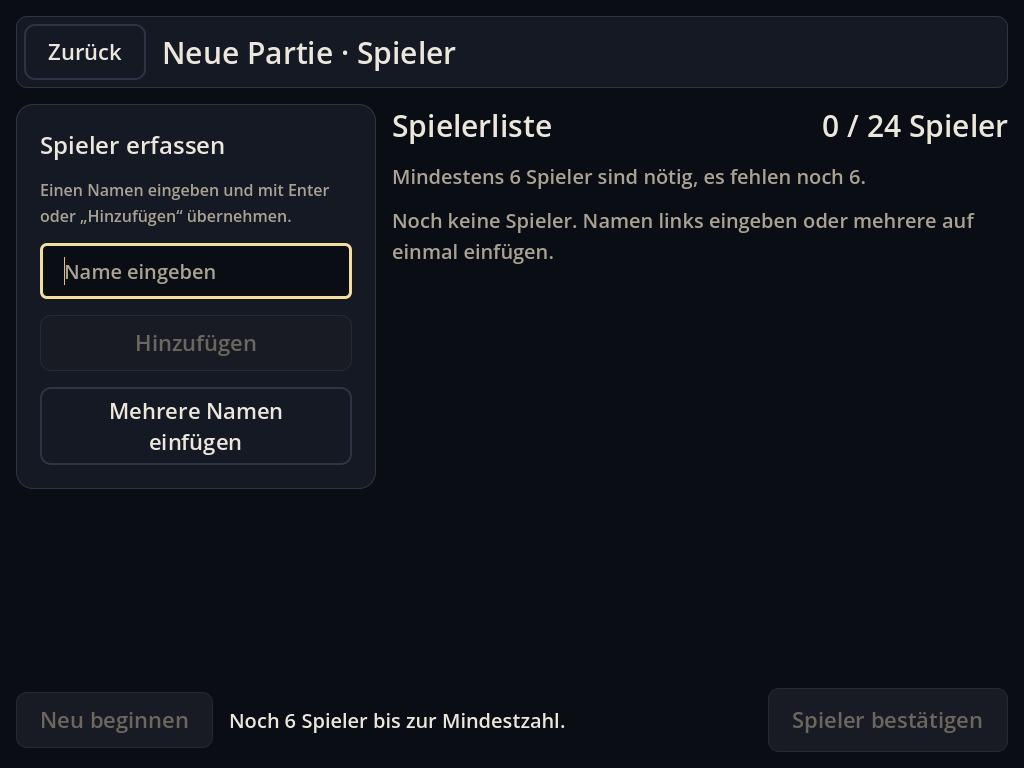
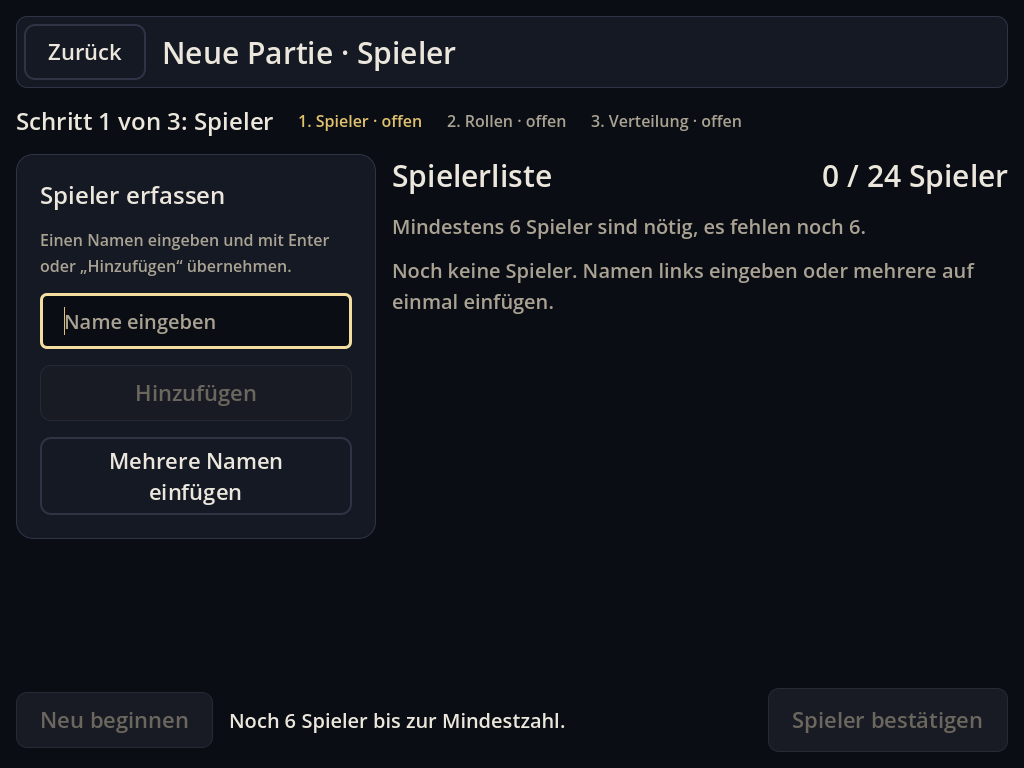
docs: Rollen-Setup, Wizard-Navigation und Prüf-Screenshots
docs/ui/role-setup.md beschreibt Katalogadapter, Darstellungsdaten, Pool,
Validierung, Vorschlag (mit Tabelle 6 bis 24), Invalidierung, Seed,
zufällige und manuelle Verteilung, Trugbilderwolf-Scheinrolle samt offenem
Widerspruch zu DR-08, Geheimhaltung, Wizard, API und Tests. Aktualisiert:
docs/ui/README.md, docs/ui/player-setup.md, godot/README.md. Dreizehn
Prüf-Screenshots unter docs/evidence/role-setup/; die Spieler-Setup-Aufnahmen
sind mit der neuen Schrittanzeige neu erzeugt.

Claude-Session: https://claude.ai/code/session_01TPAa6aqdG9qfimgUYd4iTS

diff --git a/docs/ui/role-setup.md b/docs/ui/role-setup.md
@@ -1,0 +1,245 @@
+# Rollen-Setup · Rollen auswählen und verteilen
+
+Stand: 27.09.2026 · Godot 4.7.2 · Projekt `godot/`
+
+„Neue Partie“ ist ein Wizard mit drei Schritten: **Spieler → Rollen → Verteilung**. Nach dem bestätigten Namensschritt (`player-setup.md`) stellt der Spielleiter einen Rollenpool für genau diese Personenzahl zusammen, verteilt ihn zufällig und reproduzierbar oder manuell und bestätigt die Verteilung. Das Ergebnis bleibt ein Entwurf im Speicher. Es entsteht weder `StartGame` noch ein `GameState`, und der Regelkern bleibt unverändert.
+
+## Schichten
+
+| Schicht | Dateien | Aufgabe |
+|---|---|---|
+| Katalogadapter | `app/setup/setup_role_catalog.gd` (`SetupRoleCatalog`) | liest Rollen-IDs, Fraktion, `counts_as_wolf`, Nachtpriorität, `max_copies`, Pflicht-Scheinrolle und zulässige Scheinrollen nur aus `RoleCatalog`/`Faction` |
+| Darstellungsdaten | `app/setup/role_presentation.gd` (`RolePresentation`) | Übersetzungsschlüssel für Name, Kurzbeschreibung und Fraktion; Reihenfolge in der Oberfläche; keine Regelwirkung |
+| Modell | `role_pool_draft.gd`, `distribution_draft.gd`, `setup_draft.gd` | Rollenanzahlen, Pool, Verteilung, Seed, Wizard-Schritt, Bestätigungen, Invalidierungsgründe |
+| Logik | `role_setup.gd` (`RoleSetup`), `role_suggestion.gd`, `role_distribution.gd` | Operationen und zentrale Invalidierung, Vorschlag, deterministische Verteilung und Scheinrollen |
+| Anwendungsschicht | `player_setup.gd` (`PlayerSetup`, `AppContext.setup`) | einzige Schnittstelle der UI; jede Operation atomar mit `SetupResult` |
+| Sicht | `setup_distribution_view.gd` | Sicht des Verteilungsschritts (reine Daten) |
+| UI | `app/screens/new_game/`: `new_game_screen`, `wizard_progress`, `player_step`, `role_step`, `role_row`, `distribution_step`, `assignment_row` | Darstellung, Eingabe, Rückfragen; keine Regellogik |
+
+`app/setup/` kennt weder `GameState`, `RulesEngine`, `Command`, `StartGame` noch `GameSession` und enthält keine globale Zufallsquelle und keine Uhr (statisch geprüft).
+
+## Datenmodell
+
+**`SetupDraft`** (bisherige Felder siehe `player-setup.md`)
+- `current_step`: `players`, `roles` oder `distribution`
+- `players_invalidated`: Personenliste nach einer Bestätigung geändert
+- `roles`: `RolePoolDraft`
+- `distribution`: `DistributionDraft`
+
+**`RolePoolDraft`**
+- `counts: Dictionary[StringName, int]`, jede Katalogrolle, Start 0
+- `confirmed`
+- `invalidated`: `""`, `roles_changed` oder `person_count_changed`
+- `pool()`: kanonische Liste, `total()`, `summary()`, `issues(persons)`
+
+**`DistributionDraft`**
+- `mode`: `random` (Standard) oder `manual`
+- `assignment: Dictionary[int, StringName]`: Personen-ID → Rollen-ID
+- `appearances: Dictionary[int, StringName]`: Personen-ID → vorbereitete Scheinrolle, nur für Rollen mit Pflicht-Scheinrolle
+- `confirmed`
+- `base_seed` (`-1` = noch keiner), `shuffle_count`
+- `pool`: der Pool, für den die Zuordnung gilt
+- `invalidated`: `""`, `roles_changed` oder `person_count_changed`
+
+Alle Werte sind reine, speicherbare Daten. Eine Dateispeicherung gibt es noch nicht.
+
+## Rollen und Darstellung
+
+| ID | DE | EN | Fraktion (Katalog) | `counts_as_wolf` |
+|---|---|---|---|---|
+| `dorfbewohner` | Dorfbewohner | Villager | Dorf | nein |
+| `schutzengel` | Schutzengel | Guardian Angel | Dorf | nein |
+| `das-orakel` | Das Orakel | The Oracle | Dorf | nein |
+| `waldhexe` | Waldhexe | Witch of the Woods | Dorf | nein |
+| `sensentraeger` | Sensenträger | Reaper | Dorf | nein |
+| `wolfskind` | Wolfskind | Wolf Child | Dorf | nein |
+| `lehrling` | Lehrling | Apprentice | Dorf | nein |
+| `werwolf` | Werwolf | Werewolf | Werwölfe | ja |
+| `spiegelwolf` | Spiegelwolf | Mirror Wolf | Werwölfe | ja |
+| `trugbilderwolf` | Trugbilderwolf | Decoy Wolf | Werwölfe | ja |
+| `manipulator` | Manipulator | Manipulator | Einzelsieg | nein |
+
+Die Tabelle gibt die Oberflächenreihenfolge wieder: nach Fraktion gruppiert (`RolePresentation.FACTION_ORDER`), darin nach `ROLE_ORDER`. Schlüssel: `ui.role.<id>.name` und `ui.role.<id>.short` (Bindestrich wird zu Unterstrich, z. B. `ui.role.das_orakel.name`) sowie `ui.faction.village|wolves|solo`. `wolfskind` beginnt laut Katalog im Dorf und zählt deshalb im Setup nicht als Wolf.
+
+## Rollenpool und Validierung
+
+Ein Pool ist gültig, wenn alle folgenden Bedingungen gelten:
+- Summe = Personenzahl (`too_few_roles`, `too_many_roles`)
+- keine negative Anzahl (`negative_count`) und nur bekannte IDs (`unknown_role`)
+- höchstens `copy_limit` Kopien je Rolle (`above_maximum`): Katalog-`max_copies`, bei `UNLIMITED` die Personenzahl
+- mindestens eine Rolle der Fraktion Dorf (`missing_village`)
+- mindestens eine Rolle mit `counts_as_wolf` (`missing_wolf`)
+- mindestens eine Einzelsiegrolle (`missing_solo`)
+
+Die Einzelsiegrolle erkennt der Adapter über `RoleCatalog.faction_of(id) == Faction.SOLO`. Ein fest verdrahteter Rollenname ist nicht nötig, weil der Katalog `manipulator` bereits maschinenlesbar als `solo` führt.
+
+**Kanonischer Pool:**
+- jede Kopie einmal
+- nach Rollen-ID sortiert, z. B. `["dorfbewohner", "dorfbewohner", "manipulator", "schutzengel", "werwolf", …]`
+- unabhängig von Eingabereihenfolge und Sprache
+
+## Vorschlag
+
+`RoleSuggestion.for_count(n)` ist eine Setup-Hilfe, keine Spielregel. Die Oberfläche nennt ihn „Vorschlag“ und nicht „ausgewogen“. Der Vorschlag ist deterministisch und kommt ohne Zufall aus:
+1. **Wölfe:** 6–8 → 1, 9–12 → 2, 13–17 → 3, 18–21 → 4, 22–24 → 5, in der Reihenfolge Werwolf, Spiegelwolf, Werwolf, Trugbilderwolf, Werwolf
+2. **Einzelsieg:** genau ein Manipulator
+3. **Sonderrollen des Dorfs:** (n − Wölfe − 1) / 2, höchstens 6, in der Reihenfolge Schutzengel, Das Orakel, Waldhexe, Sensenträger, Lehrling, Wolfskind
+4. **Rest:** Dorfbewohner
+
+| n | Zusammensetzung |
+|---|---|
+| 6 | 1 Werwolf, 1 Manipulator, Schutzengel, Orakel, 2 Dorfbewohner |
+| 7 | 1 Werwolf, 1 Manipulator, Schutzengel, Orakel, 3 Dorfbewohner |
+| 8 | 1 Werwolf, 1 Manipulator, Schutzengel, Orakel, Waldhexe, 3 Dorfbewohner |
+| 9 | Werwolf, Spiegelwolf, Manipulator, Schutzengel, Orakel, Waldhexe, 3 Dorfbewohner |
+| 10 | wie 9, 4 Dorfbewohner |
+| 11 | wie 9 + Sensenträger, 4 Dorfbewohner |
+| 12 | wie 11, 5 Dorfbewohner |
+| 13 | 2 Werwölfe, Spiegelwolf, Manipulator, Schutzengel, Orakel, Waldhexe, Sensenträger, 5 Dorfbewohner |
+| 14 | wie 13 + Lehrling, 5 Dorfbewohner |
+| 15 | wie 14, 6 Dorfbewohner |
+| 16 | wie 14 + Wolfskind, 6 Dorfbewohner |
+| 17 | wie 16, 7 Dorfbewohner |
+| 18 | 2 Werwölfe, Spiegelwolf, Trugbilderwolf, Manipulator, alle 6 Sonderrollen, 7 Dorfbewohner |
+| 19–21 | wie 18, 8 bis 10 Dorfbewohner |
+| 22 | 3 Werwölfe, Spiegelwolf, Trugbilderwolf, Manipulator, alle 6 Sonderrollen, 10 Dorfbewohner |
+| 23–24 | wie 22, 11 bzw. 12 Dorfbewohner |
+
+`apply_suggestion()` übernimmt ihn direkt, wenn die Auswahl leer ist oder bereits dem Vorschlag entspricht. Weicht eine bestehende Auswahl ab, liefert es `confirmation_required`; die UI fragt dann „Vorschlag übernehmen?“, und Abbrechen ändert nichts. Danach ist alles frei änderbar.
+
+## Abhängigkeiten und Invalidierung
+
+Alle Regeln stehen zentral in `RoleSetup` und laufen als Anwendungsschicht-Operationen, nicht als UI-Rückrufe.
+
+| Ereignis | Rollenpool | Verteilung |
+|---|---|---|
+| Person hinzufügen, importieren oder entfernen | bestätigter Pool mit unpassender Summe verliert die Bestätigung (`person_count_changed`) | vollständig verworfen (`person_count_changed`); Seed und Mischzähler bleiben |
+| Name ändern | bleibt | bleibt an der Personen-ID; der neue Name erscheint |
+| Rollenanzahl ändern, zurücksetzen, Vorschlag | Bestätigung aufgehoben (`roles_changed`) | vollständig verworfen (`roles_changed`) |
+| Pool erneut bestätigen | bestätigt | bleibt nur bei identischem kanonischen Pool |
+| Neu mischen | unverändert | nur zufällige Zuordnung und Scheinrollen neu |
+| Moduswechsel | unverändert | bei bestehender Zuordnung nur nach Rückfrage (`confirmation_required`); dann verworfen |
+
+Jede Personenänderung hebt wie bisher auch die Bestätigung des Namensschritts auf. Ist der aktuelle Schritt danach nicht mehr erreichbar, fällt der Wizard auf den letzten erreichbaren zurück.
+
+## Seed und zufällige Verteilung
+
+**Seed-Erzeugung:**
+- Der erste Seed entsteht beim ersten bewussten „Zufällig verteilen“ oder bei der ersten vollständigen manuellen Zuordnung.
+- Quelle ist `PlayerSetup.seed_source`, standardmäßig `AppPlatform.initial_seed()`: Systemzeit in µs XOR Laufzeitzähler, gebracht auf 1 … `CanonicalJson.MAX_SAFE_INT`.
+- Das ist die einzige Stelle mit Uhr, und sie liegt außerhalb von `app/setup/`.
+- Der Seed wird als `base_seed` gespeichert und in den technischen Details angezeigt („Seed 20260926 · Mischung 0“).
+- Tests setzen eine feste Quelle.
+
+**Verteilung** (`RoleDistribution.random_assignment`):
+1. Personen-IDs aufsteigend sortieren.
+2. Den kanonischen Pool mit `SeededRng(effektiver Seed).shuffled()` mischen (Fisher-Yates des Regelkerns).
+3. Paarweise zuordnen.
+
+Die Verteilung nutzt weder globalen Zufall noch eine Uhr. Das Ergebnis hängt nur an Personen-IDs, Pool und Seed, nicht an Listenposition, Name, Sprache oder Neuaufbau.
+
+**Neu mischen:**
+- Nur als bewusste Aktion, erhöht `shuffle_count`.
+- Effektiver Seed = `base_seed` bei Zählerstand 0, sonst `(base_seed + Zähler × 2654435761) mod MAX_SAFE_INT`.
+- Reproduzierbar; dieselbe Permutation ist möglich, und kein Test setzt Verschiedenheit voraus.
+- Hebt die Bestätigung der Verteilung auf.
+
+## Manuelle Verteilung
+
+- Jede Person zeigt Nummer, Name und „nicht zugewiesen“ bzw. „zugewiesen“, dazu „Rolle zuweisen“ bzw. „Rolle ändern“ (48 px hoch).
+- Die Auswahl ist ein modaler Dialog (`ConfirmDialog` mit `DialogOption`-Liste, Fokussperre, Escape bricht ab). Er bietet:
+  - nur Rollen mit freien Kopien („Werwolf · 1 frei“)
+  - „Zuweisung entfernen“
+  - „Rolle tauschen mit Nr. …“
+- `assign_role` lehnt ab: `no_copy_available` (Überbelegung), `role_not_in_pool`, `unknown_role`, `unknown_person`, `wrong_mode`.
+- Weitere Operationen: `unassign_role`, `swap_roles` (auch mit einer nicht zugewiesenen Person).
+- Der Restbestand ist öffentlich als Zahl sichtbar („Noch 7 Rollen offen“). Mit Rollennamen erscheint er nur im geöffneten Spielleiterbereich.
+- `confirm_distribution` gelingt nur bei vollständiger, exakter Zuordnung (`distribution_incomplete`).
+
+## Trugbilderwolf-Scheinrolle
+
+Für jede Person mit Pflicht-Scheinrolle (`RoleCatalog.requires_appearance`) bereitet der Entwurf eine Scheinrolle vor:
+- **Herleitung:** `SeededRng(mix(effektiver Seed, 1000003 + Personen-ID))` wählt aus `SetupRoleCatalog.appearance_options()`, also den kanonisch sortierten Rollen, die bekannt sind und nicht als Wolf zählen. Das Ergebnis ist nie leer.
+- **Stabilität:** Die Scheinrolle hängt an der Personen-ID und bleibt bei Umbenennen gleich. Neu mischen berechnet sie neu. Manuell entsteht sie, sobald die Zuordnung vollständig ist.
+- **Sichtbarkeit:** nur im geöffneten Spielleiterbereich, als „Scheinrolle: Lehrling (vorläufig)“. Eine manuelle Wahl gibt es noch nicht.
+
+**Offener Widerspruch zu DR-08:** Laut Entscheidungslog legt der Spielleiter die Scheinrolle fest, „nie zufällig“. Dieser Auftrag verlangt dagegen eine aus dem Seed abgeleitete Vorbelegung. Deshalb ist sie ausdrücklich als *vorläufig* markiert. Der Regelkern bleibt unberührt, weil `StartGame` die Scheinrolle weiterhin explizit über `appearances` bekommt. Vor der StartGame-Integration muss entschieden werden, ob der Spielleiter die Vorbelegung bestätigen oder ändern muss.
+
+## Geheimhaltung
+
+- Die Standardansicht der Verteilung zeigt je Person nur „zugewiesen“ oder „nicht zugewiesen“.
+- Rollen und Scheinrollen erscheinen nur im bewusst geöffneten Bereich „Geheim · nur für die Spielleitung“ (`AssignmentPanel` mit `SecretHeading`, eigener Rahmen) und in der modalen Rollenauswahl.
+- Beim Verlassen des Schritts schließt sich der Bereich wieder.
+- Eine dauerhafte Warnung steht im Schritt: „Rollen sind geheim: nicht vor Mitspielenden zeigen.“
+- Toasts („Rollen verteilt“, „Neu gemischt“, „Verteilung bestätigt“), Status, Dialogtitel, Tooltips und Screen-IDs nennen keine Rolle. `test_distribution_step` prüft das nach jeder Aktion gegen alle DE/EN-Rollennamen.
+
+## Wizard-Navigation
+
+- **Schrittanzeige** unter der Kopfzeile (`WizardProgress`, Fließlayout): „Schritt 2 von 3: Rollen“, dazu je Schritt ein Textchip wie „1. Spieler · erledigt“. Zustände sind `erledigt`, `offen` und `neu prüfen`; der aktuelle Schritt ist farbig hervorgehoben und steht zusätzlich als Text da.
+- **Spieler → Rollen:** nur mit bestätigter, gültiger Liste über „Weiter zu den Rollen“ in der Bestätigungskarte.
+- **Rollen → Verteilung:** nur über „Rollen bestätigen“ mit gültigem Pool.
+- **Schrittwechsel:** `PlayerSetup.go_to_step()` prüft die Vorbedingungen (`players_not_confirmed`, `roles_not_confirmed`). Schritte haben keine eigenen Screen-IDs, ein Doppelklick überspringt nichts, und kein Wechsel erzeugt einen Befehl.
+- **Zurück, Escape, System-Zurück:** Verteilung → Rollen → Spieler. Im Spielerschritt gilt die bestehende Rückfrage „Weiter bearbeiten / Entwurf behalten / Entwurf verwerfen“. Sie erscheint jetzt auch bei unbestätigter Rollenwahl oder unbestätigter Zuordnung.
+- **Erneutes Öffnen:** Der Wizard öffnet im zuletzt aktiven Schritt.
+
+## Bestätigungen
+
+**„Rollen bestätigen“:**
+- nur mit gültigem Pool und bestätigter Personenliste
+- setzt `roles.confirmed` und wechselt zur Verteilung
+
+**„Verteilung bestätigen“:**
+- nur bei vollständiger Zuordnung
+- setzt `distribution.confirmed`
+- zeigt die Karte „Bereit für Sitzordnung“: Personen, Rollen nach Fraktion, Modus und Seed
+
+Beide Bestätigungen erzeugen kein `StartGame`, keinen `GameState` und keinen Befehl; `GameSession` bleibt unberührt, was Tests belegen. Jede spätere passende Änderung hebt die Bestätigung auf.
+
+## Öffentliche API (`PlayerSetup`)
+
+| Methode | Fehlercodes |
+|---|---|
+| `go_to_step(step)` | `unknown_step`, `players_not_confirmed`, `roles_not_confirmed` |
+| `set_role_count(role, count)`, `change_role_count(role, delta)` | `unknown_role`, `negative_count`, `above_maximum` |
+| `reset_roles()` | – |
+| `apply_suggestion(force = false)` | `confirmation_required`, `too_few_persons`, `too_many_persons` |
+| `confirm_roles()` | `players_not_confirmed`, `roles_invalid` (Details: `issues`) |
+| `set_distribution_mode(mode, force = false)` | `unknown_mode`, `confirmation_required` |
+| `distribute_randomly()` | `players_not_confirmed`, `roles_not_confirmed`, `wrong_mode`, `no_seed_source`, `invalid_seed` |
+| `reshuffle()` | wie oben, `nothing_to_reshuffle` |
+| `assign_role(person_id, role)`, `unassign_role(person_id)`, `swap_roles(a, b)` | `wrong_mode`, `unknown_person`, `unknown_role`, `role_not_in_pool`, `no_copy_available` |
+| `confirm_distribution()` | `distribution_incomplete` und die Vorbedingungen |
+
+- **Eigenschaft:** `seed_source: Callable`.
+- **Signal:** `changed(view)`, auch nach einem Schrittwechsel.
+- **Sicht `view()`:** ergänzt um `step`, `steps` (`id`, `number`, `state`, `current`, `reachable`), `roles` (`counts`, `total`, `persons`, `free`, `valid`, `issues`, `confirmed`, `can_confirm`, `invalidated`, `pool`, `factions`, `wolf_count`, `limits`, `can_increase`, `can_decrease`, `is_empty`, `is_suggestion`) und `distribution` (`mode`, `assignment` [`person_id`, `number`, `name`, `role`, `appearance`], `assigned_count`, `person_count`, `role_count`, `remaining`, `remaining_total`, `complete`, `has_assignment`, `confirmed`, `can_confirm`, `invalidated`, `has_seed`, `seed`, `effective_seed`, `shuffle_count`, `factions`, `ready_for_seating`).
+
+**Neue UI-Bausteine:**
+- `DialogOption` und `DialogRequest.options`/`title_values` (Auswahlliste im modalen Dialog; ohne `confirm_key` keine Bestätigungsaktion)
+- `GrimmButton.format_values`
+
+## Tests und Screenshots
+
+```bash
+godot/tests/run_all.sh --filter=test_role           # Rollenmodell, Vorschlag, Rollenwahl-UI
+godot/tests/run_all.sh --filter=test_distribution   # Verteilungsmodell, Verteilungs-UI, Geheimhaltung
+xvfb-run -a -s "-screen 0 1920x1080x24" <godot-4.7.2> --path godot --rendering-driver opengl3 \
+  --audio-driver Dummy -s res://tools/capture_ui_screenshots.gd -- --only=role-setup
+```
+
+| Testdatei | Inhalt |
+|---|---|
+| `tests/ui/test_role_model.gd` | Katalogadapter gegen `RoleCatalog`, Darstellungsschlüssel DE/EN, Plus/Minus, Grenzen, Validierung, kanonischer Pool, Schrittsperren, Vorschlag 6 bis 24, Überschreiben nur mit Bestätigung, Personenänderungen, kein Zufall und keine Uhr in `app/setup/` |
+| `tests/ui/test_role_step.gd` | Schrittanzeige und Sperren, Doppelklick, Zurück und Navigation erhalten Daten, Verlassen-Rückfrage, Rollenzeilen mit Katalogdaten und Gruppen, Zähler und Fehler, Überschreib-Dialog, kein GameState/StartGame, Layout 1024×768/1280×800 EN/1920×1080, Scrollen, Schlüssel |
+| `tests/ui/test_distribution_model.gd` | Vollständigkeit, Reproduzierbarkeit, Personen-ID statt Reihenfolge, Neuaufbau/Sprache/Name, Neu mischen, Bestätigen, Invalidierung, manuelle Zuweisung, Moduswechsel, Trugbilderwolf-Scheinrollen (auch mehrere, manuell) |
+| `tests/ui/test_distribution_step.gd` | verborgene Rollen, geheimer Bereich, Seed, Neu mischen, Zusammenfassung ohne Partie, manuelle Auswahl im modalen Dialog mit Fokussperre, Moduswechsel-Rückfrage, Layout, Scrollen |
+
+Prüf-Screenshots: `docs/evidence/role-setup/`.
+
+## Bewusst noch nicht enthalten
+
+- Sitzordnung, Sitzkreis, Drag-and-drop
+- Rollenübergabe an Spieler, öffentliche Rollenanzeige
+- `StartGame`-Integration: Geplant ist ein manueller Aufbau mit `roles` und `appearances` aus dem Entwurf, damit die Setup-Zuordnung maßgeblich bleibt. Der zufällige Kernmodus mischt selbst und würde eine andere Zuordnung erzeugen.
+- manuelle Wahl der Trugbilderwolf-Scheinrolle (siehe DR-08 oben)
+- Speichern des Entwurfs, gespeicherte Gruppen, Undo/Redo

diff --git a/godot/README.md b/godot/README.md
@@ -1,6 +1,6 @@
 # Grimmhain · Godot-Projekt
 
-Phase 1 des Masterplans (`../GRIMMHAIN-REVOLUTION-MASTERPLAN.md`): headless, deterministischer Regelkern für Dorf gegen Werwölfe. Umfang nach `../docs/specs/vertical-slice/implementation-boundary.md` Abschnitt A, ergänzt um die Grundlagen B-06, B-11 (ohne `ReorderSeats`, `ConfirmRoleShown`, `BeginDay`) und DR-14: Regelschritte, Prompt-Abbruch, Spielleiterkorrektur, persistente Reaktionswarteschlange, vorläufige und verbindliche Siegprüfung. Dazu die technische UI-Grundlage der Tablet-App (App-Shell, Navigation, Ansichten, Theme, DE/EN, Anwendungsschicht), beschrieben in `../docs/ui/README.md`, und der erste Setup-Schritt „Neue Partie“ (Personen erfassen und bestätigen, `../docs/ui/player-setup.md`); keine Assets, kein Audio, noch kein Spielablauf in der UI. Rollen: `dorfbewohner`, `werwolf` und die Vertical-Slice-Rollen `sensentraeger`, `schutzengel`, `waldhexe`, `das-orakel`, `trugbilderwolf`, `wolfskind`, `spiegelwolf`, `manipulator` und `lehrling` (siehe „Rollen“).
+Phase 1 des Masterplans (`../GRIMMHAIN-REVOLUTION-MASTERPLAN.md`): headless, deterministischer Regelkern für Dorf gegen Werwölfe. Umfang nach `../docs/specs/vertical-slice/implementation-boundary.md` Abschnitt A, ergänzt um die Grundlagen B-06, B-11 (ohne `ReorderSeats`, `ConfirmRoleShown`, `BeginDay`) und DR-14: Regelschritte, Prompt-Abbruch, Spielleiterkorrektur, persistente Reaktionswarteschlange, vorläufige und verbindliche Siegprüfung. Dazu die technische UI-Grundlage der Tablet-App (App-Shell, Navigation, Ansichten, Theme, DE/EN, Anwendungsschicht), beschrieben in `../docs/ui/README.md`, und der Setup-Wizard „Neue Partie“ (Personen erfassen, Rollen auswählen, Rollen verteilen; `../docs/ui/player-setup.md`, `../docs/ui/role-setup.md`), noch ohne Sitzordnung und `StartGame`; keine Assets, kein Audio, noch kein Spielablauf in der UI. Rollen: `dorfbewohner`, `werwolf` und die Vertical-Slice-Rollen `sensentraeger`, `schutzengel`, `waldhexe`, `das-orakel`, `trugbilderwolf`, `wolfskind`, `spiegelwolf`, `manipulator` und `lehrling` (siehe „Rollen“).
 
 ## Engine-Version (gepinnt)
 
@@ -25,6 +25,8 @@ godot/tests/run_all.sh --filter=replay     # nur Testdateien, deren Name "replay
 godot/tests/run_all.sh --filter=reactions  # z. B. nur die Reaktionswarteschlange
 godot/tests/run_all.sh --filter=test_ui    # nur die UI-Grundlage (tests/ui/test_ui_*)
 godot/tests/run_all.sh --filter=test_setup # nur das Spieler-Setup (tests/ui/test_setup_*)
+godot/tests/run_all.sh --filter=test_role  # Rollenwahl und Wizard (tests/ui/test_role_*)
+godot/tests/run_all.sh --filter=test_distribution # Rollenverteilung und Geheimhaltung
 GODOT_BIN=/pfad/zu/godot godot/tests/run_all.sh   # eigene Godot-Binärdatei verwenden
 ```
 
@@ -89,6 +91,10 @@ App lokal starten: `godot --path godot` (Hauptszene `res://app/main.tscn`) oder 
 | `tests/ui/test_setup_screen.gd` | Setup-Ansicht: Einzeleingabe, Doppeltippen, Importmeldungen, Sperren bei 24, IDs über Sprachwechsel und Neuaufbau, kein GameState/StartGame, Bearbeiten, Entfernen, Verlassen mit drei Wahlmöglichkeiten, Neu beginnen | Spieler-Setup 6, 7, 17, 30, 32, 34–36, 38–45 |
 | `tests/ui/test_setup_layout.gd` | 0/6/12/18/24 Personen, EN, 1920×1080, lange Namen, Dubletten, offene Modi und Dialog, Scrollen, DE/EN-Schlüssel, keine festen Texte | Spieler-Setup 52–61 |
 | `tests/ui/test_dialog_focus.gd` | ConfirmDialog als Modal: Fokussperre (Tab, Shift+Tab, Pfeile), Hintergrund gesperrt, Escape, Fokus-Rückgabe, kein zweiter Dialog | Spieler-Setup 46–51 |
+| `tests/ui/test_role_model.gd` | Katalogadapter gegen `RoleCatalog`, Darstellungsschlüssel DE/EN, Rollenpool (Plus/Minus, Grenzen, Validierung, kanonisch), Schrittsperren, Vorschlag 6–24, Überschreiben nur mit Bestätigung, Personenänderungen, kein Zufall/keine Uhr im Setup | Rollen-Setup 1–36, 47, 73, 74 |
+| `tests/ui/test_role_step.gd` | Wizard (Schrittanzeige, Sperren, Doppelklick, Zurück, Verlassen), Rollenwahl-Oberfläche, Überschreib-Dialog, kein GameState/StartGame, Layout, Scrollen, Schlüssel | Rollen-Setup 22, 23, 33, 73–83, 86–89 |
+| `tests/ui/test_distribution_model.gd` | zufällige und manuelle Verteilung, Reproduzierbarkeit, Neu mischen, Moduswechsel, Invalidierung, Trugbilderwolf-Scheinrollen | Rollen-Setup 37–71 |
+| `tests/ui/test_distribution_step.gd` | Verteilungs-Oberfläche, Geheimhaltung, modale Rollenauswahl, Zusammenfassung ohne Partie, Layout | Rollen-Setup 44, 53–57, 63, 64, 72, 74, 80, 81, 84–91 |
 | `tests/unit/test_core_purity.gd` | `core/` ohne Nodes, Szenen, Dateisystem, Zeit, Audio, Netzwerk, globalen Zufall | Masterplan §4 Regel 1 |
 
 ### Szenarioformat (`tests/scenarios/*.json`)
@@ -112,7 +118,7 @@ App lokal starten: `godot --path godot` (Hauptszene `res://app/main.tscn`) oder 
 |---|---|
 | `project.godot` | Projekteinstellungen, Typisierungswarnungen als Fehler, Hauptszene, Querformat, Streckung `canvas_items`/`expand`, Übersetzungen, `quit_on_go_back` aus, Version (zentrale Quelle) |
 | **app/**, **content/i18n/** | UI-Grundlage und UI-Texte; Szenen, Verantwortungen, Navigation, Tokens und Lokalisierung in `../docs/ui/README.md` |
-| **app/setup/** | Spieler-Setup ohne Regelkern: `PersonNameRules` (Grenzen, Namensregeln), `SetupPerson`, `SetupDraft`, `SetupResult`, `PlayerSetup` (Anwendungsschicht); siehe `../docs/ui/player-setup.md` |
+| **app/setup/** | Setup ohne Regelkern: `PersonNameRules` (Grenzen, Namensregeln), `SetupPerson`, `SetupDraft`, `SetupResult`, `PlayerSetup` (Anwendungsschicht); Rollen über den lesenden Adapter `SetupRoleCatalog`, dazu `RolePresentation`, `RolePoolDraft`, `RoleSuggestion`, `DistributionDraft`, `RoleDistribution`, `RoleSetup`, `SetupDistributionView`; siehe `../docs/ui/player-setup.md` und `../docs/ui/role-setup.md` |
 | `tools/capture_ui_screenshots.gd` | Prüf-Screenshots der UI (braucht Renderer, z. B. Xvfb) |
 | `tools/godot-version.txt`, `tools/install_godot.sh` | gepinnte Engine-Version, Download mit Prüfsumme |
 | **core/util/** | |
@@ -247,7 +253,7 @@ Diese Punkte legt die Spezifikation nicht fest; sie sind so gewählt, dass keine
 2. **Offene Siegkandidaten blockieren alle anderen Befehle** (`win_candidate_open`), bis `ConfirmWin` oder `RejectWin` erfolgt. So bleibt die Phase bis zur Entscheidung unverändert (AS-C01).
 3. **Kandidaten erneut nur nach einer weiteren relevanten Zustandsänderung** (Tod, Wiederbelebung, Rollen- oder Statuskorrektur; AS-C04).
 4. **Tages-Unterzustand `ENDED`** zwischen `EndDay` und `StartNight`; `vertical-slice-flow.md` §8 führt beide Befehle getrennt.
-5. **Pflicht einer Einzelsiegrolle beim Setup** (DECISION-LOG) wird nicht geprüft, weil der Core-Slice keine solche Rolle besitzt. Geprüft werden 6–24 Personen, Rollenanzahl und je mindestens eine Wolfs- und Dorfrolle.
+5. **Pflicht einer Einzelsiegrolle beim Setup** (DECISION-LOG) wird nicht geprüft, weil der Core-Slice keine solche Rolle besitzt. Geprüft werden 6–24 Personen, Rollenanzahl und je mindestens eine Wolfs- und Dorfrolle. Das App-Setup (`app/setup/`, `../docs/ui/role-setup.md`) verlangt sie bereits vor der Verteilung; der Kern bleibt unverändert.
 6. **Keine Obergrenze für `dorfbewohner` und `werwolf`** (Entscheidung vom 26.09.2026, `DECISION-LOG.md`). Nur so ist jede Personenzahl von 6 bis 24 mit den beiden Grundrollen spielbar. Der Katalog kennt weiterhin ein optionales `max_copies` für spätere Rollen; die konkrete Rollenkomposition legt das Setup in Phase 2 fest.
 7. **Selbstnominierung** ist nicht verboten, weil DR-03 sie nicht regelt.
 8. **`SeatDied` ist nur für den Spielleiter sichtbar.** Nach DR-04 ist öffentlich nur der Name (Rolle je nach Setup-Option `reveal_role_on_death`, nie die Ursache); die öffentliche Todesmeldung entsteht mit den Projektionen (B-18).
@@ -285,4 +291,4 @@ Diese Punkte legt die Spezifikation nicht fest; sie sind so gewählt, dass keine
 
 ## Nicht enthalten
 
-Spielablauf in der UI (Rollen, Sitzkreis, StartGame aus dem Setup, Ansagekarte mit Inhalt), gespeicherte Einstellungen und Spielerlisten, Autoloads, Assets, eingebettete Schriften, Audio, weitere Rollen, allgemeines Effektmodell, `ReorderSeats`, `ConfirmRoleShown`, `BeginDay`, Undo/Redo, Checkpoints auf Datenträger, öffentliche Projektionen. Siehe `implementation-boundary.md` B bis D.
+Spielablauf in der UI (Sitzordnung, Sitzkreis, Rollenübergabe, StartGame aus dem Setup, Ansagekarte mit Inhalt), gespeicherte Einstellungen und Spielerlisten, Autoloads, Assets, eingebettete Schriften, Audio, weitere Rollen, allgemeines Effektmodell, `ReorderSeats`, `ConfirmRoleShown`, `BeginDay`, Undo/Redo, Checkpoints auf Datenträger, öffentliche Projektionen. Siehe `implementation-boundary.md` B bis D.

diff --git a/docs/ui/player-setup.md b/docs/ui/player-setup.md
@@ -2,7 +2,7 @@
 
 Stand: 26.09.2026 · Godot 4.7.2 · Projekt `godot/`
 
-Erster echter Setup-Schritt: Der Spielleiter legt 6 bis 24 Personen an, bearbeitet und entfernt sie und bestätigt die Liste als Setup-Entwurf. Rollen, Sitzordnung und `StartGame` folgen in späteren Arbeitspaketen.
+Schritt 1 des Setup-Wizards „Neue Partie“ (Spieler → Rollen → Verteilung): Der Spielleiter legt 6 bis 24 Personen an, bearbeitet und entfernt sie und bestätigt die Liste als Setup-Entwurf. Rollenwahl und Verteilung beschreibt `role-setup.md`; Sitzordnung und `StartGame` folgen in späteren Arbeitspaketen.
 
 ## Schichten
 
@@ -10,7 +10,7 @@ Erster echter Setup-Schritt: Der Spielleiter legt 6 bis 24 Personen an, bearbeit
 |---|---|---|
 | Modell | `app/setup/person_name_rules.gd`, `setup_person.gd`, `setup_draft.gd`, `setup_result.gd` | Grenzen, Namensregeln, Personen, Entwurf, strukturierte Ergebnisse |
 | Anwendungsschicht | `app/setup/player_setup.gd` (`AppContext.setup`) | einzige Wahrheit über Personen, IDs und Bestätigung; alle Operationen atomar |
-| UI | `app/screens/new_game/new_game_screen.*`, `person_row.*` | Darstellung, Eingabe, Rückfragen; ruft nur `PlayerSetup` auf |
+| UI | `app/screens/new_game/player_step.*` (Schritt im Wizard-Host `new_game_screen.*`), `person_row.*` | Darstellung, Eingabe, Rückfragen; ruft nur `PlayerSetup` auf |
 
 `app/setup/` kennt weder `GameState` noch `RulesEngine`, `Command`, `StartGame` oder `GameSession`; ein Test prüft das statisch.
 
@@ -100,17 +100,18 @@ Alle Grenzen stehen nur in `PersonNameRules`: `MIN_PERSONS = 6`, `MAX_PERSONS = 
 | 24 | Bestätigen frei; Feld, „Hinzufügen“ und Import gesperrt, Hinweis „Höchstzahl erreicht“, Fokus auf „Spieler bestätigen“ |
 | 25. Person | `too_many_persons`, Zustand unverändert |
 
-- **Bestätigen:** Setzt `confirmed` und leert `has_unconfirmed_changes`. Es erscheinen der Status „Bestätigt: N Spieler.“, eine Statusmeldung und die Karte „Namensschritt vollständig“.
+- **Bestätigen:** Setzt `confirmed` und leert `has_unconfirmed_changes`. Es erscheinen der Status „Bestätigt: N Spieler.“, eine Statusmeldung und die Karte „Namensschritt vollständig“ mit „Weiter zu den Rollen“ (erhält den Fokus). Erst dieser Button wechselt zum Rollenschritt.
 - **Keine Partie:** Bestätigen erzeugt keinen `GameState`, keinen Befehl und keine Rollen. `GameSession` bleibt unberührt, per Test mit Befehlszähler 0 und ohne Ereignisse.
-- **Erneute Änderung:** Jede spätere Änderung (hinzufügen, importieren, umbenennen, entfernen) hebt die Bestätigung auf.
+- **Erneute Änderung:** Jede spätere Änderung (hinzufügen, importieren, umbenennen, entfernen) hebt die Bestätigung auf. Hinzufügen und Entfernen verwerfen zusätzlich eine Rollenverteilung und heben die Bestätigung eines nicht mehr passenden Rollenpools auf; Umbenennen erhält beides (`role-setup.md`).
 
 ## Verlassen und erneutes Öffnen
 
-- Zurück-Button, Escape und System-Zurück laufen über `NewGameScreen.handle_back()`:
+- Zurück-Button, Escape und System-Zurück laufen über `NewGameScreen.handle_back()`; im Rollen- bzw. Verteilungsschritt führen sie einen Schritt zurück, im Spielerschritt gilt:
   1. offener Import- oder Bearbeitungsmodus → schließen
-  2. unbestätigte Änderungen an einer nicht leeren Liste → Rückfrage mit „Weiter bearbeiten“ (Fokus, Escape), „Entwurf behalten“ (zum Hauptmenü) und „Entwurf verwerfen“ (rot, setzt zurück, zum Hauptmenü)
+  2. unbestätigte Änderungen an einer nicht leeren Liste, eine unbestätigte Rollenwahl oder eine unbestätigte Zuordnung → Rückfrage mit „Weiter bearbeiten“ (Fokus, Escape), „Entwurf behalten“ (zum Hauptmenü) und „Entwurf verwerfen“ (rot, setzt zurück, zum Hauptmenü)
   3. sonst normales Zurück
 - Ein bestätigter oder leerer Entwurf verlässt die Seite ohne Rückfrage.
+- Beim erneuten Öffnen erscheint der zuletzt aktive Wizard-Schritt.
 - Programmgesteuerte Navigation fragt nicht nach, der Entwurf bleibt dabei erhalten.
 - Beim erneuten Öffnen erscheinen dieselben Namen, IDs und derselbe Status.
 - „Neu beginnen“ (Fußzeile) setzt nach einer roten Rückfrage alles zurück.
@@ -139,7 +140,6 @@ Prüf-Screenshots: `docs/evidence/player-setup/`.
 
 ## Bewusst noch nicht enthalten
 
-- Rollen, Rollenanzahl und Rollenverteilung
 - Sitzordnung und Sitzkreis, Drag-and-drop, manuelle Umordnung der Liste
 - `StartGame` und eine echte Partie
 - Speichern auf Datenträger, Autosave, gespeicherte Gruppen, Dateiimport und -export

diff --git a/docs/evidence/role-setup/README.md b/docs/evidence/role-setup/README.md
@@ -1,0 +1,31 @@
+# Prüf-Screenshots · Rollen-Setup
+
+Prüfartefakte, keine Produktionsassets. Erzeugt am 27.09.2026 in der Cloud-Umgebung mit Godot 4.7.2-stable unter Xvfb (Mesa llvmpipe, Compatibility-Renderer) durch `godot/tools/capture_ui_screenshots.gd`. Logische Größe = Bildgröße, reduzierte Bewegung an, fester Setup-Seed 20260926. Vorbereitet über `AppContext.setup` und echte Buttons.
+
+| Datei | Zustand | Größe | Sprache |
+|---|---|---|---|
+| `01-roles-suggestion-1024x768-de.png` | Rollenwahl mit Vorschlag für 12 Personen | 1024×768 | DE |
+| `02-roles-too-few-1024x768-de.png` | 8 von 12 Rollen, „Noch 4 frei“, fehlende Einzelsiegrolle, Bestätigen gesperrt | 1024×768 | DE |
+| `03-roles-valid-manual-1280x800-de.png` | gültiger manuell zusammengestellter Pool, 10 Personen | 1280×800 | DE |
+| `04-roles-1280x800-en.png` | Rollenwahl mit Vorschlag | 1280×800 | EN |
+| `05-suggestion-overwrite-dialog-1280x800-de.png` | Rückfrage „Vorschlag übernehmen?“ über abweichender Auswahl | 1280×800 | DE |
+| `06-distribution-mode-1024x768-de.png` | Verteilung vor dem Verteilen, Modus Zufällig/Manuell | 1024×768 | DE |
+| `07-random-hidden-1024x768-de.png` | zufällig verteilt, Rollen verborgen („zugewiesen“), Seed sichtbar, Statusmeldung ohne Rolle | 1024×768 | DE |
+| `08-secret-open-1280x800-de.png` | geöffneter Bereich „Geheim · nur für die Spielleitung“ | 1280×800 | DE |
+| `09-manual-partial-1280x800-de.png` | manuell, 5 von 12 zugewiesen, Restbestand im geheimen Bereich | 1280×800 | DE |
+| `10-manual-picker-1280x800-de.png` | modale Rollenauswahl mit freien Rollen, Entfernen und Tauschen | 1280×800 | DE |
+| `11-manual-complete-1280x800-en.png` | vollständige manuelle Verteilung, geöffnet | 1280×800 | EN |
+| `12-confirmed-ready-1280x800-de.png` | bestätigte Verteilung, Karte „Bereit für Sitzordnung“ | 1280×800 | DE |
+| `13-decoy-wolf-secret-1280x800-de.png` | Trugbilderwolf mit vorläufiger Scheinrolle im geheimen Bereich | 1280×800 | DE |
+
+Beim Ansehen der ersten Aufnahmen gefundene und behobene Mängel (Commit „fix(ui): Sichtmängel aus den Rollen-Setup-Screenshots“):
+- Titel der Rollenauswahl zeigte den Platzhalter `{number}` roh → `DialogRequest.title_values`
+- linke Spalte der Verteilung lief bei 1024×768 und 1280×800 über und scrollte beim Fokuswechsel aus dem Bild (Warnung angeschnitten) → Modusbuttons nebeneinander, Modus und Hinweis in einer Zeile, nur noch „Zufällig verteilen“ oder „Neu mischen“, kürzere Warnung
+- Zuordnungszeilen zweizeilig, zu wenige Personen sichtbar → einzeilig mit fester Zustandsspalte
+- „Verteilung bestätigen“ brach in zwei Zeilen um → ohne Umbruch
+- Meldung „Spielerliste bestätigt“ bzw. „Rollen bestätigt“ aus dem vorigen Schritt verdeckte den Listenanfang in den Aufnahmen → im Werkzeug ausgeblendet; in der App verschwindet sie nach 2,5 s
+- Aufnahme 13 zeigte keinen Trugbilderwolf → Liste wird zur ersten Trugbilderwolf-Zeile gescrollt
+
+Bewusst so belassen: Die Statusmeldung einer Aktion (`07`, `12`) verdeckt 2,5 s den unteren Listenbereich. Die Fraktion steht in jeder Rollenzeile, obwohl sie auch als Gruppenüberschrift erscheint, damit sie nie nur aus der Position folgt. Die Bilder ersetzen keine Prüfung auf einem echten Tablet.
+
+Neu erzeugen: siehe `docs/ui/role-setup.md`, Abschnitt „Tests und Screenshots“.

diff --git a/docs/evidence/player-setup/README.md b/docs/evidence/player-setup/README.md
@@ -21,4 +21,6 @@ Beim Ansehen der ersten Aufnahmen gefundene und behobene Mängel (Commit „fix(
 
 Bewusst so belassen: Die Statusmeldung verdeckt 2,5 s lang den unteren Listenbereich (`08`); am oberen Listenrand werden Zeilen beim Scrollen angeschnitten (`03`). Die Bilder ersetzen keine Prüfung auf einem echten Tablet.
 
+Am 27.09.2026 mit dem Setup-Wizard neu erzeugt: Die Aufnahmen zeigen jetzt zusätzlich die Schrittanzeige „Schritt 1 von 3“, `08` die Schaltfläche „Weiter zu den Rollen“ mit Fokus.
+
 Neu erzeugen: siehe `docs/ui/player-setup.md`, Abschnitt „Tests und Screenshots“.
